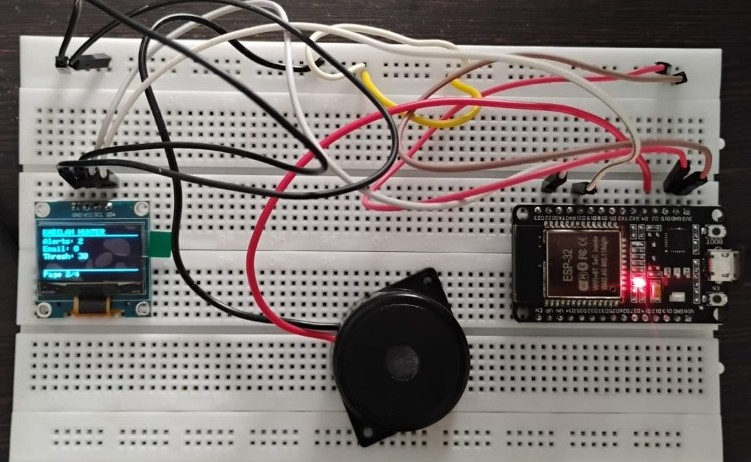
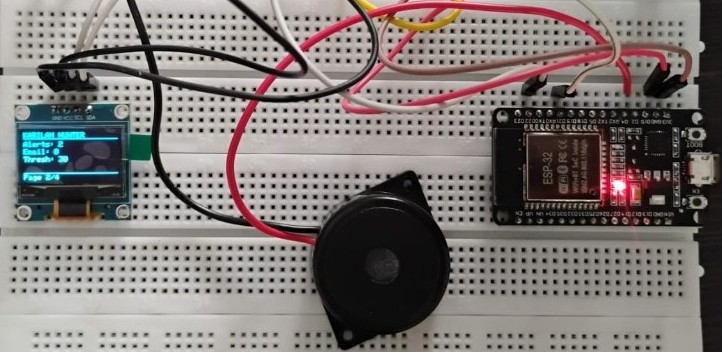
Update footer copyright to Security and Networking Engineer

diff --git a/index.html b/index.html
@@ -454,7 +454,7 @@
   </button>
 
   <footer class="site-footer">
-    <p>&copy; <span id="year"></span> Kabilan M. Built with a clean modern portfolio style.</p>
+    <p>&copy; 2024 Kabilan M. Security and Networking Engineer.</p>
     <p>
       <a href="pages/about.html">About</a> ·
       <a href="pages/projects.html">Projects</a> ·

diff --git a/pages/about.html b/pages/about.html
@@ -293,7 +293,7 @@
   <button id="scrollTopBtn" class="scroll-top" type="button" aria-label="Scroll to top"><i class="fa-solid fa-arrow-up"></i></button>
 
   <footer class="site-footer">
-    <p>© <span id="year"></span> Kabilan M. Clean, professional, and recruiter-friendly.</p>
+    <p>&copy; 2024 Kabilan M. Security and Networking Engineer.</p>
     <p><a href="projects.html">Projects</a> · <a href="contact.html">Contact</a></p>
   </footer>
 </body>

diff --git a/pages/contact.html b/pages/contact.html
@@ -84,7 +84,7 @@
   <button id="scrollTopBtn" class="scroll-top" type="button" aria-label="Scroll to top"><i class="fa-solid fa-arrow-up"></i></button>
 
   <footer class="site-footer">
-    <p>© <span id="year"></span> Kabilan M. Reach out for internships or project opportunities.</p>
+    <p>&copy; 2024 Kabilan M. Security and Networking Engineer.</p>
     <p><a href="about.html">About</a> · <a href="projects.html">Projects</a></p>
   </footer>
 </body>

diff --git a/pages/projects.html b/pages/projects.html
@@ -147,7 +147,7 @@
   <button id="scrollTopBtn" class="scroll-top" type="button" aria-label="Scroll to top"><i class="fa-solid fa-arrow-up"></i></button>
 
   <footer class="site-footer">
-    <p>© <span id="year"></span> Kabilan M. Clean, modern, and recruiter-friendly.</p>
+    <p>&copy; 2024 Kabilan M. Security and Networking Engineer.</p>
     <p><a href="about.html">About</a> · <a href="contact.html">Contact</a></p>
   </footer>
 